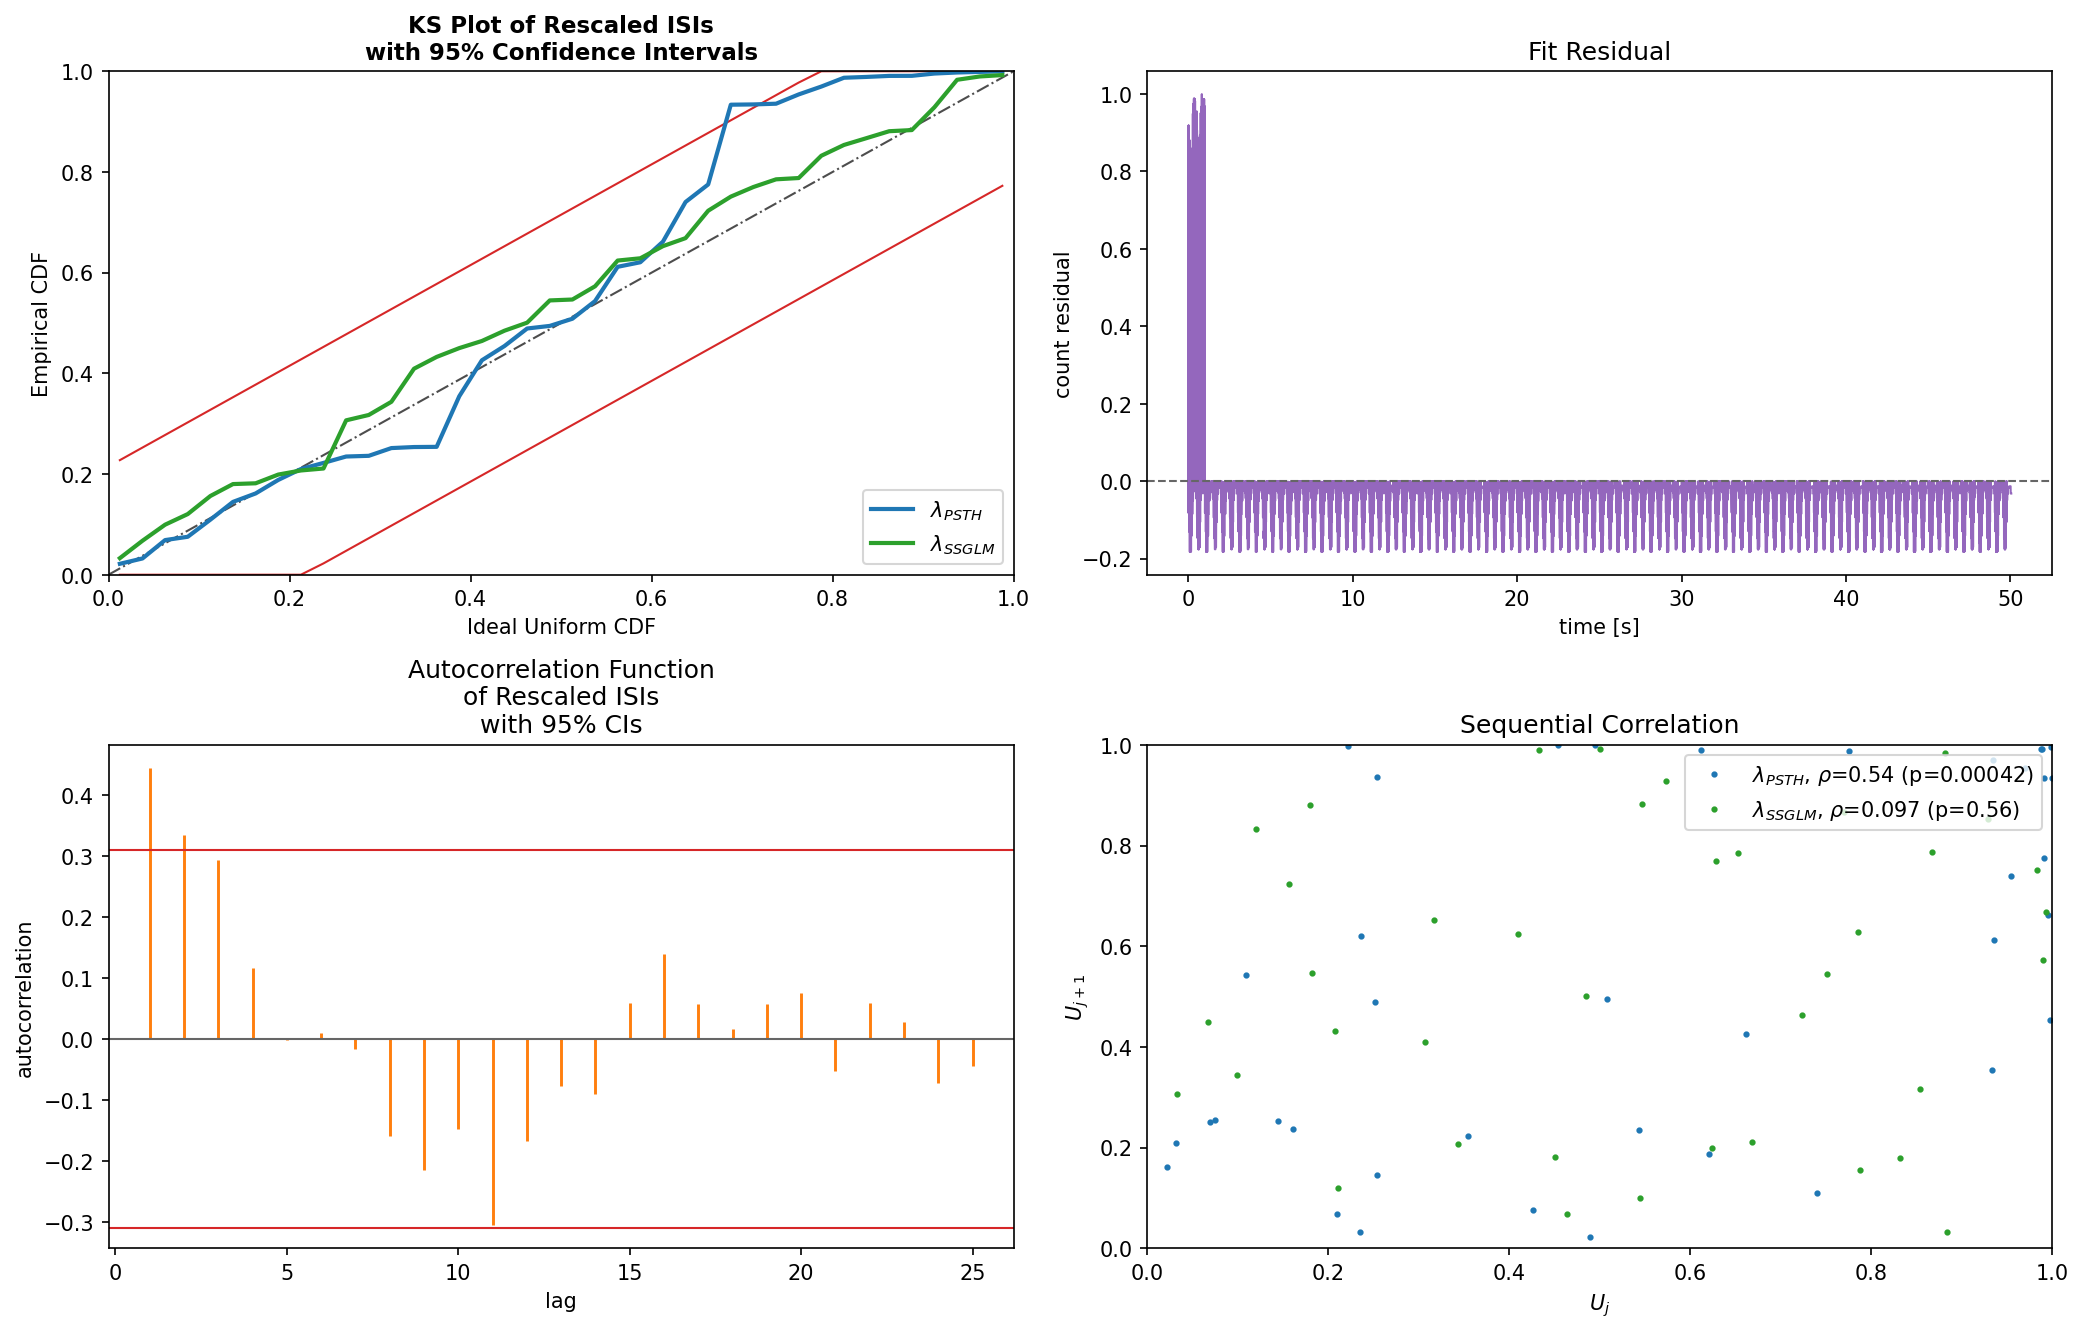
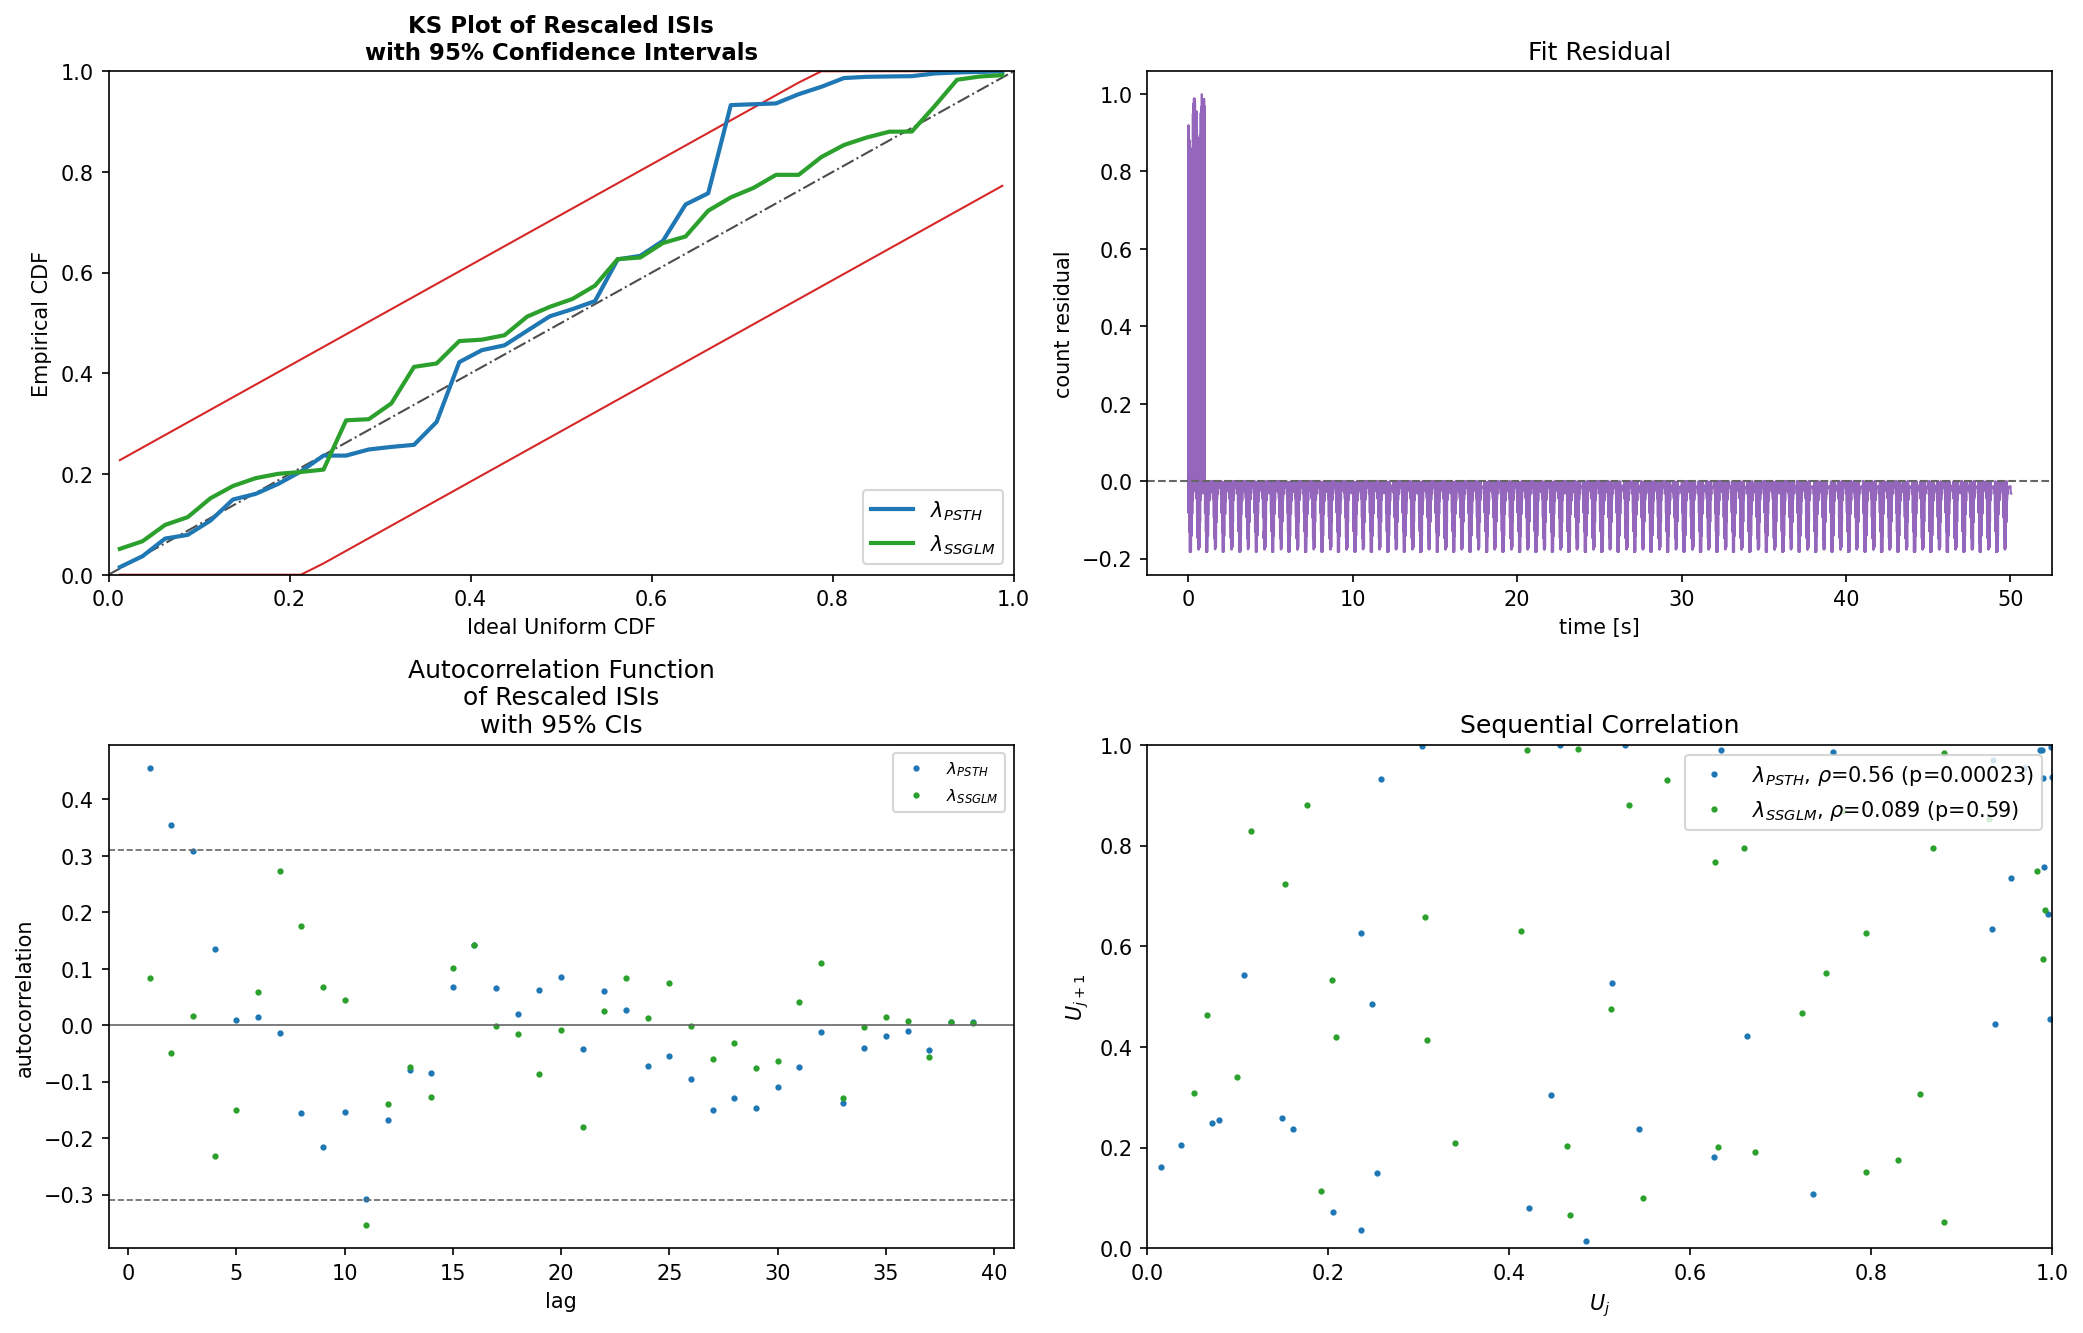
Match Python diagnostic plots and Example 01 layout to MATLAB
- Example 01 Figs 1 & 3: Replace plotResults() 2x4 grid with custom 2x2
  layout matching MATLAB (raster, ACF, KS plot, lambda estimate)
- plotCoeffs: Support multi-fit overlay (default fit_num=None plots all fits)
- plotResidual: Support multi-fit overlay with per-fit colors and legend,
  symmetric y-axis, title changed to "Point Process Residual"
- plotSeqCorr: Title changed to "Sequential Correlation of Rescaled ISIs"
- plotResults: Pass fit_num=None to plotCoeffs and plotResidual

diff --git a/nstat/fit.py b/nstat/fit.py
@@ -1174,8 +1174,8 @@ class FitResult:
         )
         self.plotInvGausTrans(fit_num=None, handle=ax_ig)
         self.plotSeqCorr(fit_num=None, handle=ax_sc)
-        self.plotCoeffs(fit_num=fit_num, handle=ax_co)
-        self.plotResidual(fit_num=fit_num, handle=ax_re)
+        self.plotCoeffs(fit_num=None, handle=ax_co)
+        self.plotResidual(fit_num=None, handle=ax_re)
         fig.tight_layout()
         return fig
 
@@ -1238,15 +1238,47 @@ class FitResult:
         ax.set_title("KS Plot of Rescaled ISIs\nwith 95% Confidence Intervals", fontweight="bold", fontsize=11)
         return ax
 
-    def plotResidual(self, fit_num: int = 1, handle=None):
-        """Plot the martingale residual M(t) (Matlab ``plotResidual``)."""
+    def plotResidual(self, fit_num: int | list[int] | None = None, handle=None):
+        """Plot the martingale residual M(t) for one or more fits.
+
+        Matches Matlab ``plotResidual``: plots all residuals with per-fit
+        colours and a legend using ``lambda.dataLabels``.
+        """
+        if fit_num is None:
+            fit_nums = list(range(1, self.numResults + 1))
+        elif isinstance(fit_num, int):
+            fit_nums = [fit_num]
+        else:
+            fit_nums = list(fit_num)
+
         ax = handle if handle is not None else plt.subplots(1, 1, figsize=(6.0, 3.5))[1]
-        residual = self.computeFitResidual(fit_num)
-        ax.plot(np.asarray(residual.time, dtype=float), np.asarray(residual.data[:, 0], dtype=float), color="tab:purple", linewidth=1.0)
+        _SEQ_COLORS = ["tab:blue", "tab:green", "tab:red", "tab:cyan", "tab:purple", "tab:olive", "k"]
+        data_labels = (
+            list(self.lambda_signal.dataLabels)
+            if getattr(self.lambda_signal, "dataLabels", None)
+            else []
+        )
+        for i, fn in enumerate(fit_nums):
+            residual = self.computeFitResidual(fn)
+            color = _SEQ_COLORS[i % len(_SEQ_COLORS)]
+            label = _ensure_mathtext(
+                data_labels[fn - 1] if fn - 1 < len(data_labels) else f"Model {fn}"
+            )
+            ax.plot(
+                np.asarray(residual.time, dtype=float),
+                np.asarray(residual.data[:, 0], dtype=float),
+                color=color, linewidth=1.0, label=label,
+            )
         ax.axhline(0.0, color="0.4", linewidth=1.0, linestyle="--")
+        if len(fit_nums) > 1:
+            ax.legend(loc="upper right", fontsize=8)
         ax.set_xlabel("time [s]")
         ax.set_ylabel("count residual")
-        ax.set_title("Fit Residual")
+        ax.set_title("Point Process Residual", fontweight="bold", fontsize=11)
+        # Match MATLAB: symmetric y-axis with 10% margin
+        ylims = ax.get_ylim()
+        max_y = max(abs(ylims[0]), abs(ylims[1])) * 1.1
+        ax.set_ylim(-max_y, max_y)
         return ax
 
     def plotInvGausTrans(self, fit_num: int | list[int] | None = None, handle=None):
@@ -1360,40 +1392,57 @@ class FitResult:
         if legend_handles:
             ax.legend(legend_handles, legend_labels, loc="upper right", fontsize=10)
 
-        ax.set_title("Sequential Correlation")
+        ax.set_title("Sequential Correlation of\nRescaled ISIs", fontweight="bold", fontsize=11)
         ax.set_xlabel("$U_j$")
         ax.set_ylabel("$U_{j+1}$")
         ax.set_xlim(0, 1)
         ax.set_ylim(0, 1)
         return ax
 
-    def plotCoeffs(self, fit_num: int = 1, handle=None, plotSignificance: int = 1):
+    def plotCoeffs(self, fit_num: int | list[int] | None = None, handle=None, plotSignificance: int = 1):
         """Plot GLM coefficients with error bars and significance markers.
 
-        Matches Matlab FitResult.plotCoeffs: errorbar plot with ±1 SE,
-        and asterisks (*) above significant coefficients (p < 0.05).
+        Matches Matlab FitResult.plotCoeffs: when *fit_num* is ``None``
+        (default) all fits are overlaid with per-fit colours, errorbar
+        plots with ±1 SE, and asterisks (*) above significant coefficients
+        (p < 0.05).
         """
-        diag = self._compute_diagnostics(fit_num)
+        if fit_num is None:
+            fit_nums = list(range(1, self.numResults + 1))
+        elif isinstance(fit_num, int):
+            fit_nums = [fit_num]
+        else:
+            fit_nums = list(fit_num)
+
         ax = handle if handle is not None else plt.subplots(1, 1, figsize=(6.0, 3.5))[1]
-        coeffs = np.asarray(diag["coefficients"], dtype=float)
-        se = np.asarray(diag["coeff_se"], dtype=float)
-        sig = np.asarray(diag["coeff_sig"], dtype=float)
-        labels = list(np.asarray(diag["coeff_labels"], dtype=object))
-        xpos = np.arange(1, coeffs.size + 1, dtype=float)
+        _SEQ_COLORS = ["tab:blue", "tab:green", "tab:red", "tab:cyan", "tab:purple", "tab:olive", "k"]
         ax.axhline(0.0, color="0.6", linewidth=1.0)
-        # Errorbar plot like Matlab (dot markers with SE whiskers)
-        valid_se = np.where(np.isfinite(se), se, 0.0)
-        ax.errorbar(xpos, coeffs, yerr=valid_se, fmt=".", color="tab:blue",
-                     linewidth=1.0, markersize=8.0, capsize=3.0)
-        if plotSignificance and np.any(sig > 0):
-            ylims = ax.get_ylim()
-            y_star = 0.8 * ylims[1]
-            sig_idx = xpos[sig.astype(bool)]
-            ax.plot(sig_idx, np.full(sig_idx.size, y_star), "*", color="tab:blue", markersize=10.0)
+
+        # Use labels from first fit for x-axis
+        first_diag = self._compute_diagnostics(fit_nums[0])
+        labels = list(np.asarray(first_diag["coeff_labels"], dtype=object))
+        n_coeffs = len(labels)
+        xpos = np.arange(1, n_coeffs + 1, dtype=float)
+
+        for i, fn in enumerate(fit_nums):
+            diag = self._compute_diagnostics(fn)
+            coeffs = np.asarray(diag["coefficients"], dtype=float)
+            se = np.asarray(diag["coeff_se"], dtype=float)
+            sig = np.asarray(diag["coeff_sig"], dtype=float)
+            color = _SEQ_COLORS[i % len(_SEQ_COLORS)]
+            valid_se = np.where(np.isfinite(se), se, 0.0)
+            ax.errorbar(xpos, coeffs, yerr=valid_se, fmt=".", color=color,
+                         linewidth=1.0, markersize=8.0, capsize=3.0)
+            if plotSignificance and np.any(sig > 0):
+                ylims = ax.get_ylim()
+                y_star = 0.8 * ylims[1] - i * 0.1
+                sig_idx = xpos[sig.astype(bool)]
+                ax.plot(sig_idx, np.full(sig_idx.size, y_star), "*", color=color, markersize=10.0)
+
         ax.set_xticks(xpos)
         ax.set_xticklabels(labels, rotation=45, ha="right", fontsize=6)
         ax.set_ylabel("GLM Fit Coefficients")
-        ax.set_title("GLM Coefficients")
+        ax.set_title("GLM Coefficients", fontweight="bold", fontsize=11)
         return ax
 
     def plotCoeffsWithoutHistory(self, fit_num: int = 1, sortByEpoch: int = 0, plotSignificance: int = 1, handle=None):

diff --git a/examples/paper/example01_mepsc_poisson.py b/examples/paper/example01_mepsc_poisson.py
@@ -140,12 +140,36 @@ def run_example01(*, export_figures: bool = False, export_dir: Path | None = Non
     print(f"  AIC: {resultConst.AIC}")
     print(f"  BIC: {resultConst.BIC}")
 
-    # --- Figure 1: Constant Mg2+ diagnostics (Matlab-matching plotResults) ---
-    # Matlab calls resultConst.plotResults which creates a 2x4 grid:
-    #   [KSPlot (2-wide)]  [InvGausTrans]  [SeqCorr]
-    #   [plotCoeffs (2-wide)]               [plotResidual (2-wide)]
-    fig1 = plt.figure(figsize=(14, 9))
-    resultConst.plotResults(handle=fig1)
+    # --- Figure 1: Constant Mg2+ diagnostics (Matlab-matching 2x2 layout) ---
+    # Matlab uses subplot(2,2,...) with: raster, InvGausTrans, KSPlot, lambda
+    fig1, axes1 = plt.subplots(2, 2, figsize=(14, 9))
+
+    # (2,2,1): Neural raster
+    ax = axes1[0, 0]
+    spikeCollConst.plot(handle=ax)
+    ax.set_title("Neural Raster with constant Mg$^{2+}$ Concentration",
+                 fontweight="bold", fontsize=12)
+    ax.set_xlabel("time [s]", fontsize=12, fontweight="bold")
+    ax.set_ylabel("mEPSCs", fontsize=12, fontweight="bold")
+    ax.set_yticks([0, 1])
+
+    # (2,2,2): Inverse Gaussian transform (ACF)
+    resultConst.plotInvGausTrans(fit_num=None, handle=axes1[0, 1])
+
+    # (2,2,3): KS plot
+    resultConst.KSPlot(fit_num=None, handle=axes1[1, 0])
+
+    # (2,2,4): Lambda estimate
+    ax = axes1[1, 1]
+    lam = resultConst.lambda_signal
+    ax.plot(np.asarray(lam.time, dtype=float),
+            np.asarray(lam.data[:, 0], dtype=float),
+            "b", linewidth=2)
+    ax.set_xlabel("time [s]", fontsize=12, fontweight="bold")
+    ax.set_ylabel(lam.ylabel if hasattr(lam, "ylabel") else "spikes/sec",
+                  fontsize=12, fontweight="bold")
+    ax.legend(["$\\lambda_{const}$"], loc="upper right")
+
     fig1.suptitle("Example 01 — Figure 1: Constant Mg$^{2+}$ Summary",
                   fontsize=14, fontweight="bold")
     fig1.tight_layout()
@@ -229,10 +253,39 @@ def run_example01(*, export_figures: bool = False, export_dir: Path | None = Non
     print(f"  AIC: {resultWashout.AIC}")
     print(f"  BIC: {resultWashout.BIC}")
 
-    # --- Figure 3: Piecewise model diagnostics (Matlab-matching plotResults) ---
-    # Matlab calls resultWashout.plotResults which creates the same 2x4 grid.
-    fig3 = plt.figure(figsize=(14, 9))
-    resultWashout.plotResults(handle=fig3)
+    # --- Figure 3: Piecewise model diagnostics (Matlab-matching 2x2 layout) ---
+    # Matlab uses subplot(2,2,...) with: raster+epoch lines, InvGausTrans, KSPlot, lambda comparison
+    fig3, axes3 = plt.subplots(2, 2, figsize=(14, 9))
+
+    # (2,2,1): Neural raster with epoch boundary lines
+    ax = axes3[0, 0]
+    spikeCollWashout.plot(handle=ax)
+    ax.set_title("Neural Raster with decreasing Mg$^{2+}$ Concentration",
+                 fontweight="bold", fontsize=12)
+    ax.set_xlabel("time [s]", fontsize=12, fontweight="bold")
+    ax.set_yticklabels([])
+    ax.axvline(495, color="r", linewidth=4)
+    ax.axvline(765, color="r", linewidth=4)
+
+    # (2,2,2): Inverse Gaussian transform (ACF) — all fits
+    resultWashout.plotInvGausTrans(fit_num=None, handle=axes3[0, 1])
+
+    # (2,2,3): KS plot — all fits
+    resultWashout.KSPlot(fit_num=None, handle=axes3[1, 0])
+
+    # (2,2,4): Lambda comparison (two models overlaid)
+    ax = axes3[1, 1]
+    lam = resultWashout.lambda_signal
+    t = np.asarray(lam.time, dtype=float)
+    ax.plot(t, np.asarray(lam.data[:, 0], dtype=float), "b", linewidth=2)
+    if lam.data.shape[1] > 1:
+        ax.plot(t, np.asarray(lam.data[:, 1], dtype=float), "g", linewidth=2)
+    ax.set_ylim(0, 5)
+    ax.set_xlabel("time [s]", fontsize=12, fontweight="bold")
+    ax.set_ylabel(lam.ylabel if hasattr(lam, "ylabel") else "spikes/sec",
+                  fontsize=12, fontweight="bold")
+    ax.legend(["$\\lambda_{const}$", "$\\lambda_{const-epoch}$"], loc="upper right")
+
     fig3.suptitle("Example 01 — Figure 3: Piecewise Baseline Comparison",
                   fontsize=14, fontweight="bold")
     fig3.tight_layout()
